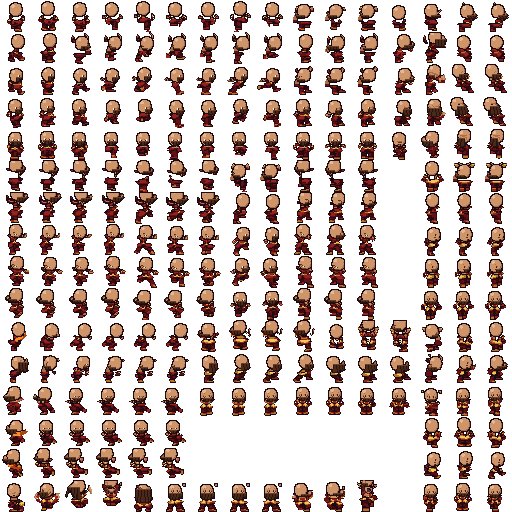
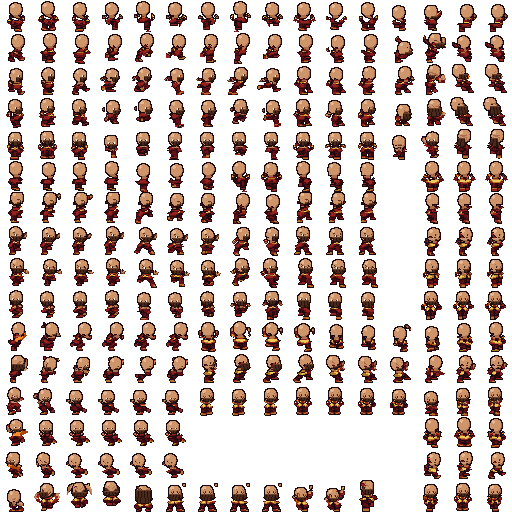
Class heroes cast and swing without the head jumping
The bald head was placed from the topmost patch of skin, which in a cast is the raised hand, so the head landed on the hand or lost its face, and between frames it jumped up to five pixels where the original's head moves one. The face is now the patch of skin nearest the headphones; a raised arm is kept over the new head instead of being erased with the hair; a head left apart from the body (the original lunges where its hair filled the gap) gets a neck; and in every played frame the head stays within a pixel of its facing's standing height (HEAD_BOB, PLAYED). The worst head jump between frames is now 2 pixels, in the side skid where the original itself turns.

diff --git a/misc/hero_skins/make_skins.py b/misc/hero_skins/make_skins.py
@@ -289,15 +289,54 @@ BALD_RX = 7.0
 BALD_RY = 7.2
 BALD_DROP = 1.0
 BALD_FACE_LIFT = 2.5
-# NOTE: the face's middle row when standing facing the camera, plus a pixel
-# of bob; lower than this the head is lifted
-FACE_Y_MAX = 13.0
+# NOTE: how far a head may bob from its facing's standing height (pixels)
+HEAD_BOB = 1.0
+# NOTE: the face's middle sits this far under the headphones' middle, and
+# a patch of skin further than this from there is not the face
+FACE_BELOW_PHONES = 4.5
+FACE_NEAR_PHONES = 6.5
+# NOTE: a head further than this from the body (pixels) gets a neck
+NECK_GAP = 2.0
 
 
-def bald_head(cell, look=None):
+def join_neck(cell, dome, bx, by):
+    """a neck from the head's chin to the nearest part of the body when the
+    two are apart: the original lunges with its head far forward, and its
+    long hair used to fill the gap"""
+    op = cell[..., 3] > 0
+    body = op & ~neighbours8(dome) & (np.mgrid[0:32, 0:32][0] > by)
+    if not body.any():
+        return cell
+    chin = np.array([by + BALD_RY - 1.0, bx])
+    ys, xs = np.nonzero(body)
+    d = np.hypot(ys - chin[0], xs - chin[1])
+    k = d.argmin()
+    if d[k] <= NECK_GAP:
+        return cell
+    target = np.array([ys[k], xs[k]])
+    new = np.zeros((32, 32), bool)
+    for t in np.linspace(0.0, 1.0, 12):
+        y, x = chin + t * (target - chin)
+        for dy in (-1, 0, 1):
+            for dx in (-1, 0, 1):
+                yi, xi = int(round(y)) + dy, int(round(x)) + dx
+                if 0 <= yi < 32 and 0 <= xi < 32 and (abs(dy) + abs(dx) < 2):
+                    new[yi, xi] = True
+    new &= ~op | is_col(cell, [OUTLINE])
+    cell[new] = SKIN[1] + (255,)
+    op = cell[..., 3] > 0
+    edge = ~op & neighbours8(new)
+    edge &= (np.roll(new, 1, 0) | np.roll(new, -1, 0) | np.roll(new, 1, 1) | np.roll(new, -1, 1))
+    cell[edge] = OUTLINE + (255,)
+    return cell
+
+
+def bald_head(cell, look=None, rest_y=None, measure=False):
     """takes the hair (and the headphones) away and draws a round bald head
-    a size smaller in their place, shaded from the upper left, then puts
-    the original face (skin, eyes, mouth) back on it"""
+    a size smaller in their place, then puts the original face (skin, eyes,
+    mouth) back on it. rest_y is the head's height in the standing frame of
+    the same facing: the head bobs at most HEAD_BOB from it, so it never
+    jumps between frames. measure returns the head's own height instead"""
     h = head_of(cell)
     if h is None:
         return cell
@@ -313,22 +352,32 @@ def bald_head(cell, look=None):
         if is_streak(patch, -99, wide):
             for y, x in patch:
                 streak[y, x] = True
-    # NOTE: the face is the topmost patch of skin; the head is found from
-    # it, since a hair bun sticking up throws the sprite's top off
+    # NOTE: the face is the patch of skin nearest the headphones, which sit
+    # on the head in every frame; a hand raised to cast is never it, nor
+    # does a hair bun sticking up throw it off. With no headphones in
+    # view, the topmost patch of skin
+    phones = is_col(cell, METAL) & (yy < top + 15)
+    candidates = [p for p in components(skin & ~streak) if len(p) >= 4]
     face_patch = None
-    for patch in components(skin & ~streak):
-        if len(patch) >= 4 and min(y for y, x in patch) <= top + 18:
-            if face_patch is None or min(y for y, x in patch) < min(y for y, x in face_patch):
-                face_patch = patch
+    if phones.sum() >= 3:
+        py, px = [v.mean() for v in np.nonzero(phones)]
+        def gap(p):
+            return np.hypot(np.mean([y for y, x in p]) - (py + FACE_BELOW_PHONES),
+                            np.mean([x for y, x in p]) - px)
+        near = [p for p in candidates if gap(p) <= FACE_NEAR_PHONES]
+        if near:
+            face_patch = min(near, key=gap)
+    else:
+        for patch in candidates:
+            if min(y for y, x in patch) <= top + 18:
+                if face_patch is None or min(y for y, x in patch) < min(y for y, x in face_patch):
+                    face_patch = patch
     if face_patch:
         fy = np.array([y for y, x in face_patch])
         fx = np.array([x for y, x in face_patch])
         cy = fy.mean() + 0.5 - BALD_FACE_LIFT - BALD_DROP
         neck = fy.max() + 1.5
-        # NOTE: the original ducks its head when it runs toward the camera
-        # (its hair bun hid it); a bald head is lifted back to its standing
-        # height, give or take a pixel, and a neck fills in under it
-        lift = max(0, int(round(fy.mean() - FACE_Y_MAX)))
+        lift = 0
         box = (yy >= fy.min() - 2) & (yy <= fy.max()) & (xx >= fx.min() - 2) & (xx <= fx.max() + 2)
         face = box & (skin | is_col(cell, ACCENT + [WHITE])) & ~streak
     else:
@@ -340,10 +389,28 @@ def bald_head(cell, look=None):
     face &= yy + 0.5 < neck
     keep = cell.copy()
     gone = old & ~streak & (cell[..., 3] > 0)
+    # NOTE: an arm or a hand raised across the head (a cast, a swing) is
+    # not head: it comes back over the new head, with its outline
+    limbs = (cell[..., 3] > 0) & is_col(cell, CLOTH + ACCENT + SKIN) & ~face
+    arm = np.zeros((32, 32), bool)
+    for patch in components(limbs):
+        if any(not old[y, x] for y, x in patch):
+            for y, x in patch:
+                arm[y, x] = True
+    arm &= gone
+    arm_line = gone & is_col(cell, [OUTLINE]) & neighbours8(arm) & ~neighbours8(face)
     cell[gone] = 0
     # NOTE: the head sits where the face says, the face on its lower half;
     # seen from behind (no face) a little under the hair's centre
-    by = cy + BALD_DROP - lift
+    by = cy + BALD_DROP
+    if measure:
+        return by
+    # NOTE: the original ducks and lunges its head where its hair hid it;
+    # the bald head stays within HEAD_BOB of its standing height, its face
+    # moving with it, and a neck joins it to the body
+    if rest_y is not None:
+        lift = int(round(by - np.clip(by, rest_y - HEAD_BOB, rest_y + HEAD_BOB)))
+    by -= lift
     bx = cx
     nx = (xx + 0.5 - bx) / BALD_RX
     ny = (yy + 0.5 - by) / BALD_RY
@@ -360,12 +427,13 @@ def bald_head(cell, look=None):
     # anywhere (the long hair down the back, the ponytail)
     moved = np.roll(face, -lift, 0)
     cell[moved] = np.roll(keep, -lift, 0)[moved]
-    if lift and face_patch:
+    if lift > 0 and face_patch:
         mx = fx.mean()
         for y in range(int(fy.max()) - lift + 1, int(fy.max()) + 1):
             for x in range(int(mx - 1.5), int(mx + 2.5)):
                 if 0 <= y < 32 and 0 <= x < 32 and (cell[y, x, 3] == 0 or tuple(cell[y, x, :3]) == OUTLINE):
                     cell[y, x] = SKIN[1] + (255,)
+    cell[arm | arm_line] = keep[arm | arm_line]
     hair = is_col(cell, HAIR) | (is_col(cell, METAL) & old)
     cell[hair] = 0
     cell = reoutline(cell, hair | gone)
@@ -386,6 +454,7 @@ def bald_head(cell, look=None):
         eye_row = fy.min() - lift + 1
     else:
         eye_row = by
+    cell = join_neck(cell, dome, bx, by)
     info = {'bx': bx, 'by': by, 'rx': BALD_RX, 'ry': BALD_RY, 'dome': dome,
             'face': moved, 'eye_row': eye_row}
     cell = draw_look(cell, info, look)
@@ -417,8 +486,8 @@ def despeck(cell):
     return out
 
 
-def class_cell(cell, pal):
-    cell = thicken_legs(trim_hips(widen(bald_head(cell, LOOKS.get(pal.get('name'))))))
+def class_cell(cell, pal, rest_y=None):
+    cell = thicken_legs(trim_hips(widen(bald_head(cell, LOOKS.get(pal.get('name')), rest_y))))
     h = head_of(cell)
     out = cell.copy()
     yy, xx = np.mgrid[0:32, 0:32]
@@ -501,12 +570,31 @@ LOOKS = {
 }
 
 
+# NOTE: the cells the game plays, by facing (sim/animations.cpp): first
+# frame and count of each animation, and the standing frame of each facing
+PLAYED = {
+    'down': [(177, 1), (180, 4), (32, 6), (96, 4), (184, 4), (103, 2)],
+    'up': [(241, 1), (244, 4), (80, 6), (160, 4), (248, 4), (167, 2)],
+    'right': [(209, 1), (212, 4), (64, 6), (128, 4), (216, 4), (135, 2)],
+}
+FACING_OF = {s + k: f for f, runs in PLAYED.items() for s, n in runs for k in range(n)}
+
+
+def sheet_cell(sheet, index):
+    """the cell the game's frame index names (rows counted from the bottom)"""
+    r, c = 15 - index // 16, index % 16
+    return r, c, sheet[r * 32:(r + 1) * 32, c * 32:(c + 1) * 32]
+
+
 def class_sheet(sheet, pal):
-    """every 32-pixel cell of the sheet, in place of the original's"""
+    """every 32-pixel cell of the sheet, in place of the original's; a
+    played cell keeps its head near its facing's standing height"""
+    rest = {f: bald_head(sheet_cell(sheet, runs[0][0])[2], measure=True) for f, runs in PLAYED.items()}
     out = sheet.copy()
-    for r in range(16):
-        for c in range(16):
-            out[r * 32:(r + 1) * 32, c * 32:(c + 1) * 32] = class_cell(sheet[r * 32:(r + 1) * 32, c * 32:(c + 1) * 32], pal)
+    for index in range(256):
+        r, c, cell = sheet_cell(sheet, index)
+        f = FACING_OF.get(index)
+        out[r * 32:(r + 1) * 32, c * 32:(c + 1) * 32] = class_cell(cell, pal, rest.get(f))
     return out
 
 
